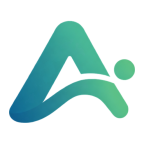
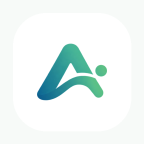
update preload mobile

Changed region(s): [[0.0556, 0.1389, 0.9444, 0.8611]]

diff --git a/public/sw.js b/public/sw.js
@@ -1,4 +1,4 @@
-const CACHE_NAME = "laravel-pwa-v2";
+const CACHE_NAME = "laravel-pwa-v3";
 const OFFLINE_URL = "/offline.html";
 
 // Only pre-cache static offline fallback, NEVER dynamic root ("/") or Vite bundles

diff --git a/resources/views/app.blade.php b/resources/views/app.blade.php
@@ -14,7 +14,14 @@
     <link href="https://fonts.googleapis.com/css2?family=IBM+Plex+Mono:wght@400;500;600&family=IBM+Plex+Sans:wght@400;500;600;700&family=Newsreader:ital,opsz,wght@0,6..72,400;0,6..72,500;1,6..72,400&display=swap" rel="stylesheet" />
     <link href="https://fonts.googleapis.com/css2?family=Material+Symbols+Outlined:opsz,wght,FILL,GRAD@20..48,100..700,0..1,-50..200" rel="stylesheet" />
 
-    @pwaHead('image/Logo_AEVYRA_Icon.png', '#00433e')
+    <!-- PWA Primary Meta Tags & Manifest (Direct & Cache-Busted) -->
+    <meta name="theme-color" content="#00433e" />
+    <meta name="mobile-web-app-capable" content="yes" />
+    <meta name="apple-mobile-web-app-capable" content="yes" />
+    <meta name="apple-mobile-web-app-status-bar-style" content="black-translucent" />
+    <meta name="apple-mobile-web-app-title" content="AEVYRA" />
+    <link rel="apple-touch-icon" href="/icon-192x192.png?v=3" />
+    <link rel="manifest" href="/manifest.json?v=3" />
 
     <!-- Midtrans Snap Telemetry Filter (Prevent Faro ERR_BLOCKED_BY_CLIENT & Telemetry Console Errors) -->
     <script>
